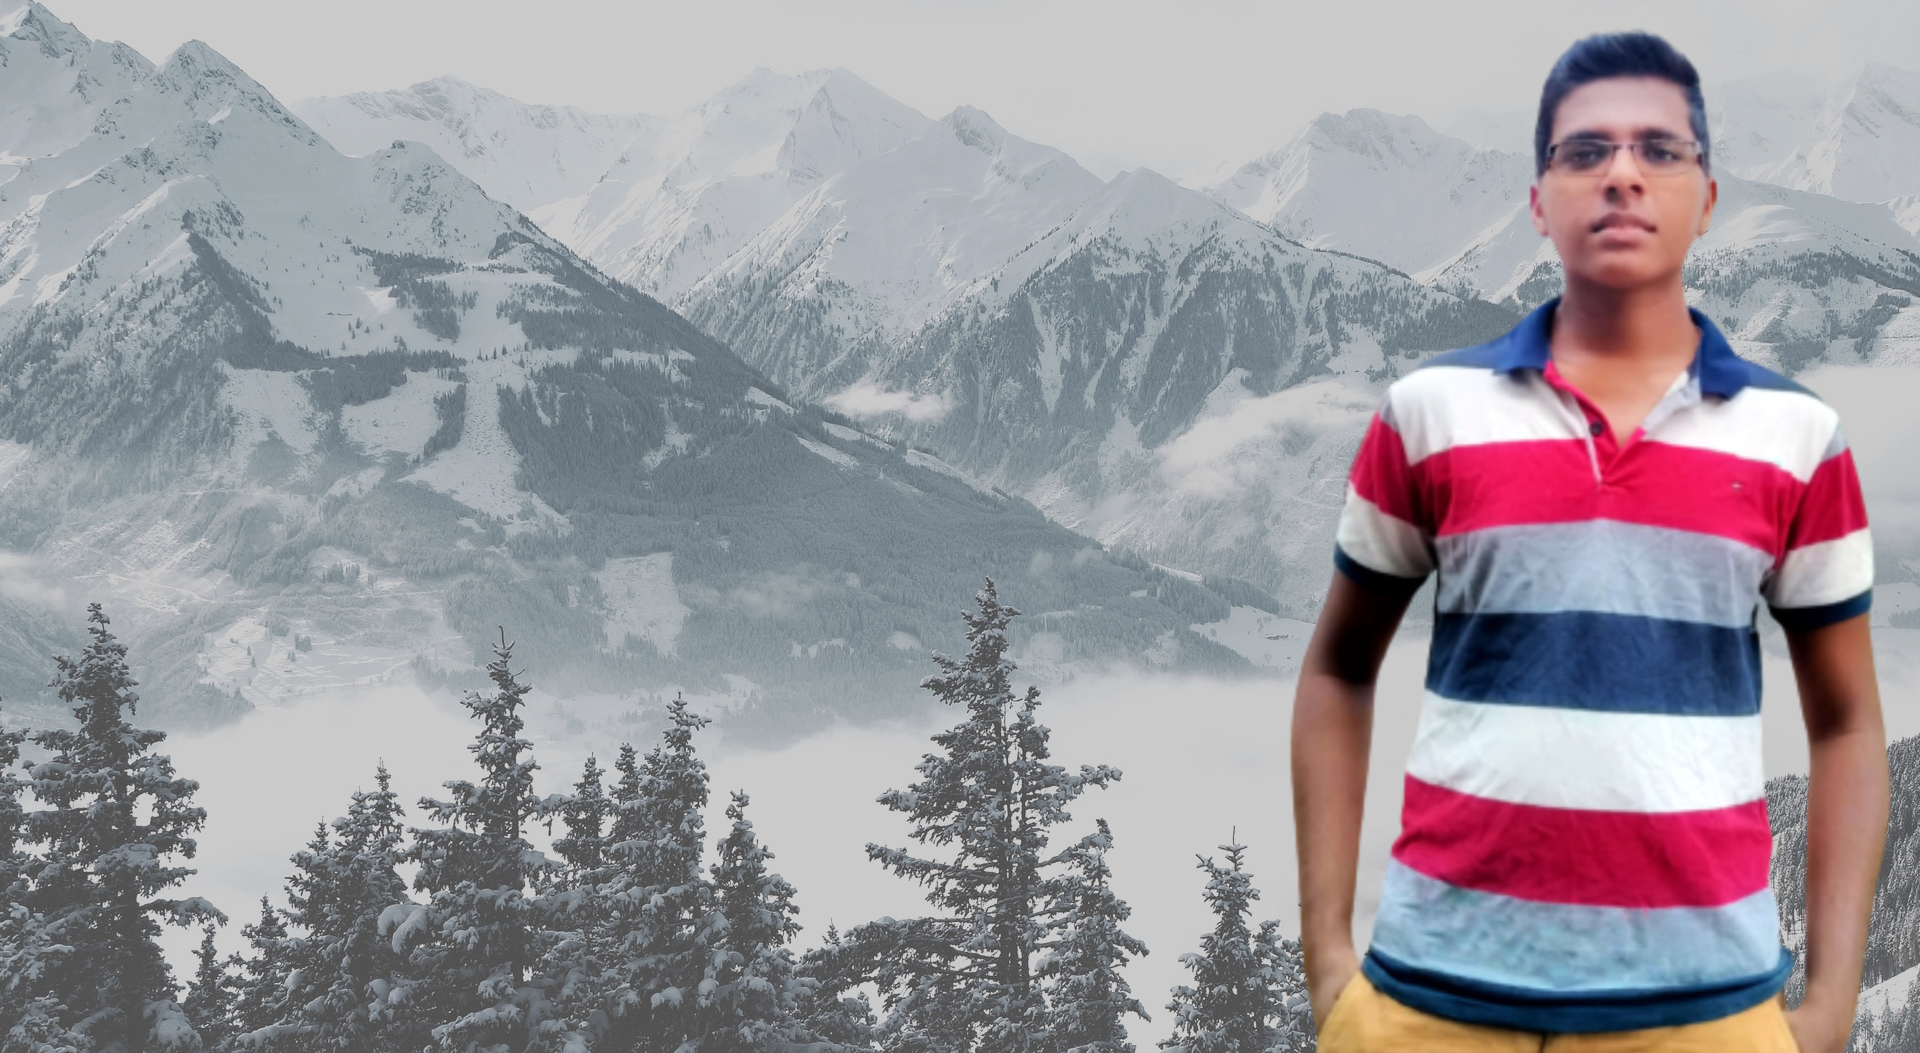
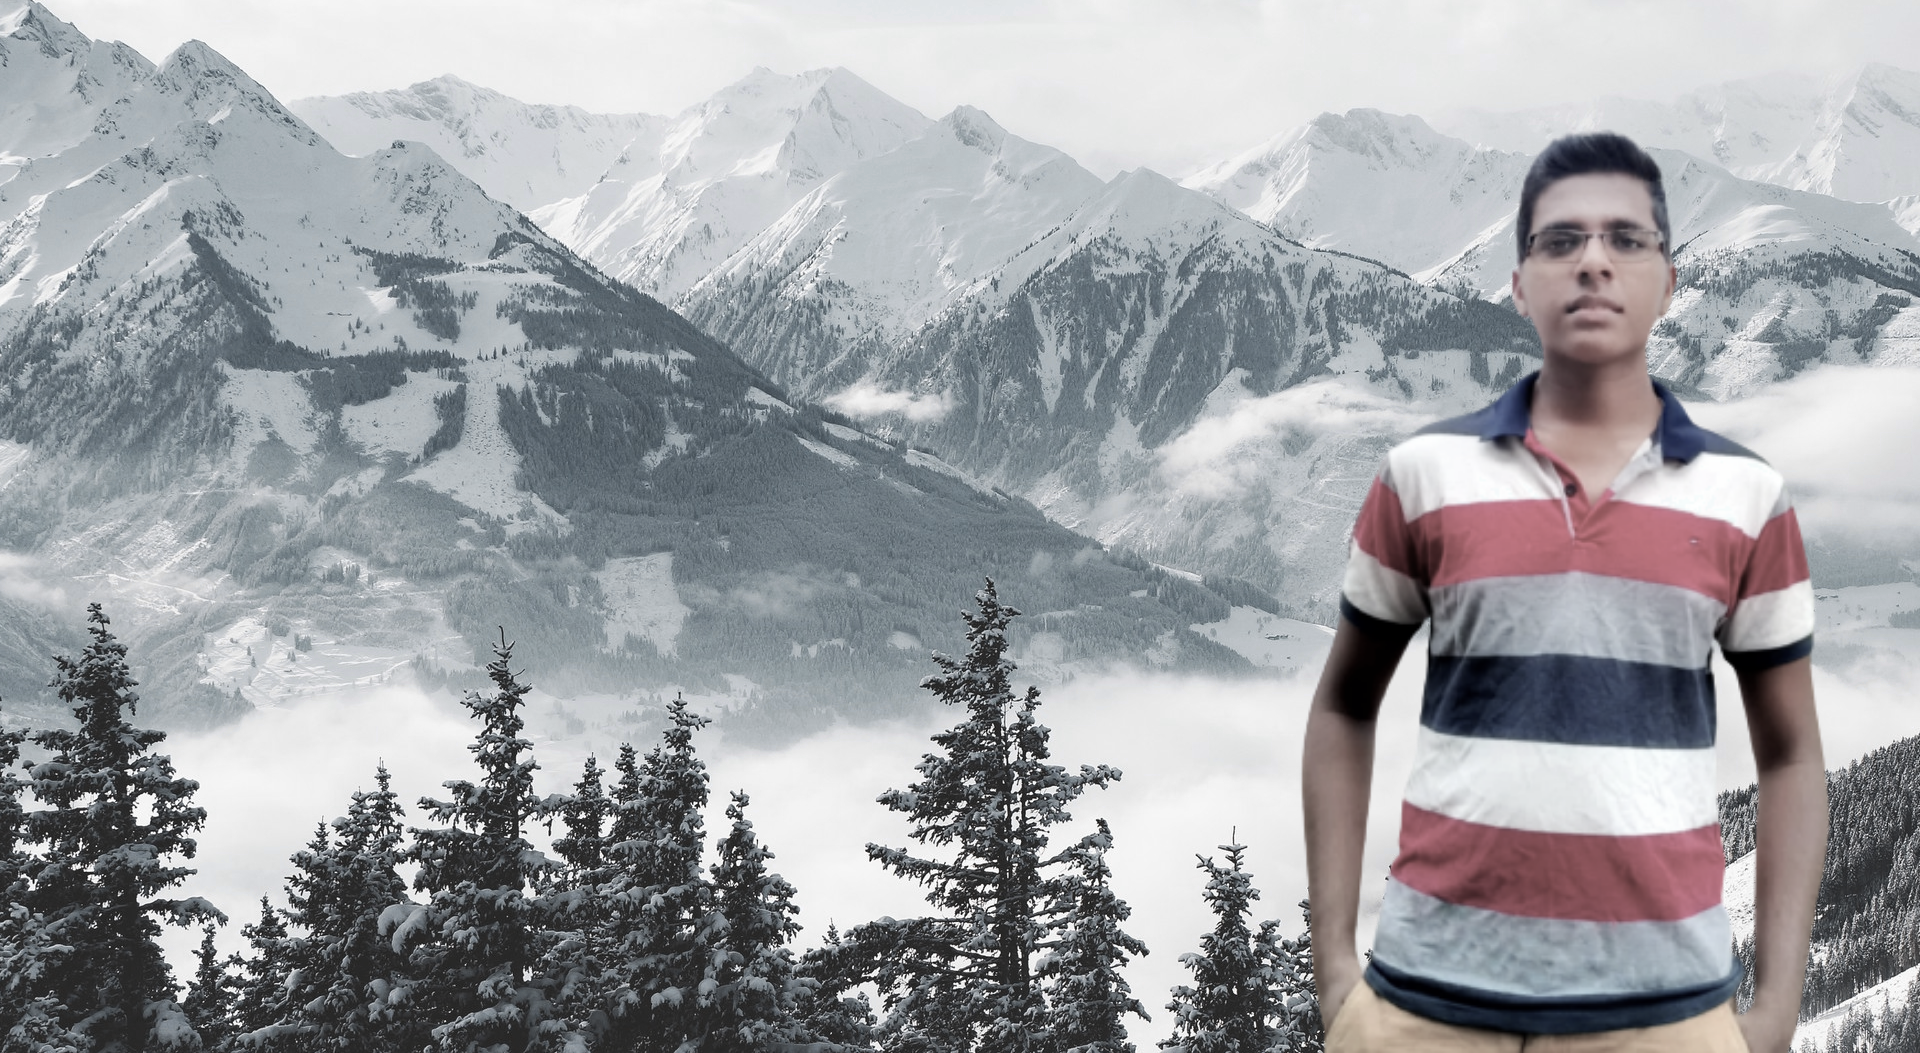
minor bug fixes

diff --git a/assets/css/style.css b/assets/css/style.css
@@ -274,7 +274,7 @@ h6 {
 #hero {
   width: 100%;
   height: 100vh;
-
+  background: url("../img/sudila-bg.png") top right no-repeat;
   background-size: cover;
   position: relative;
 }
